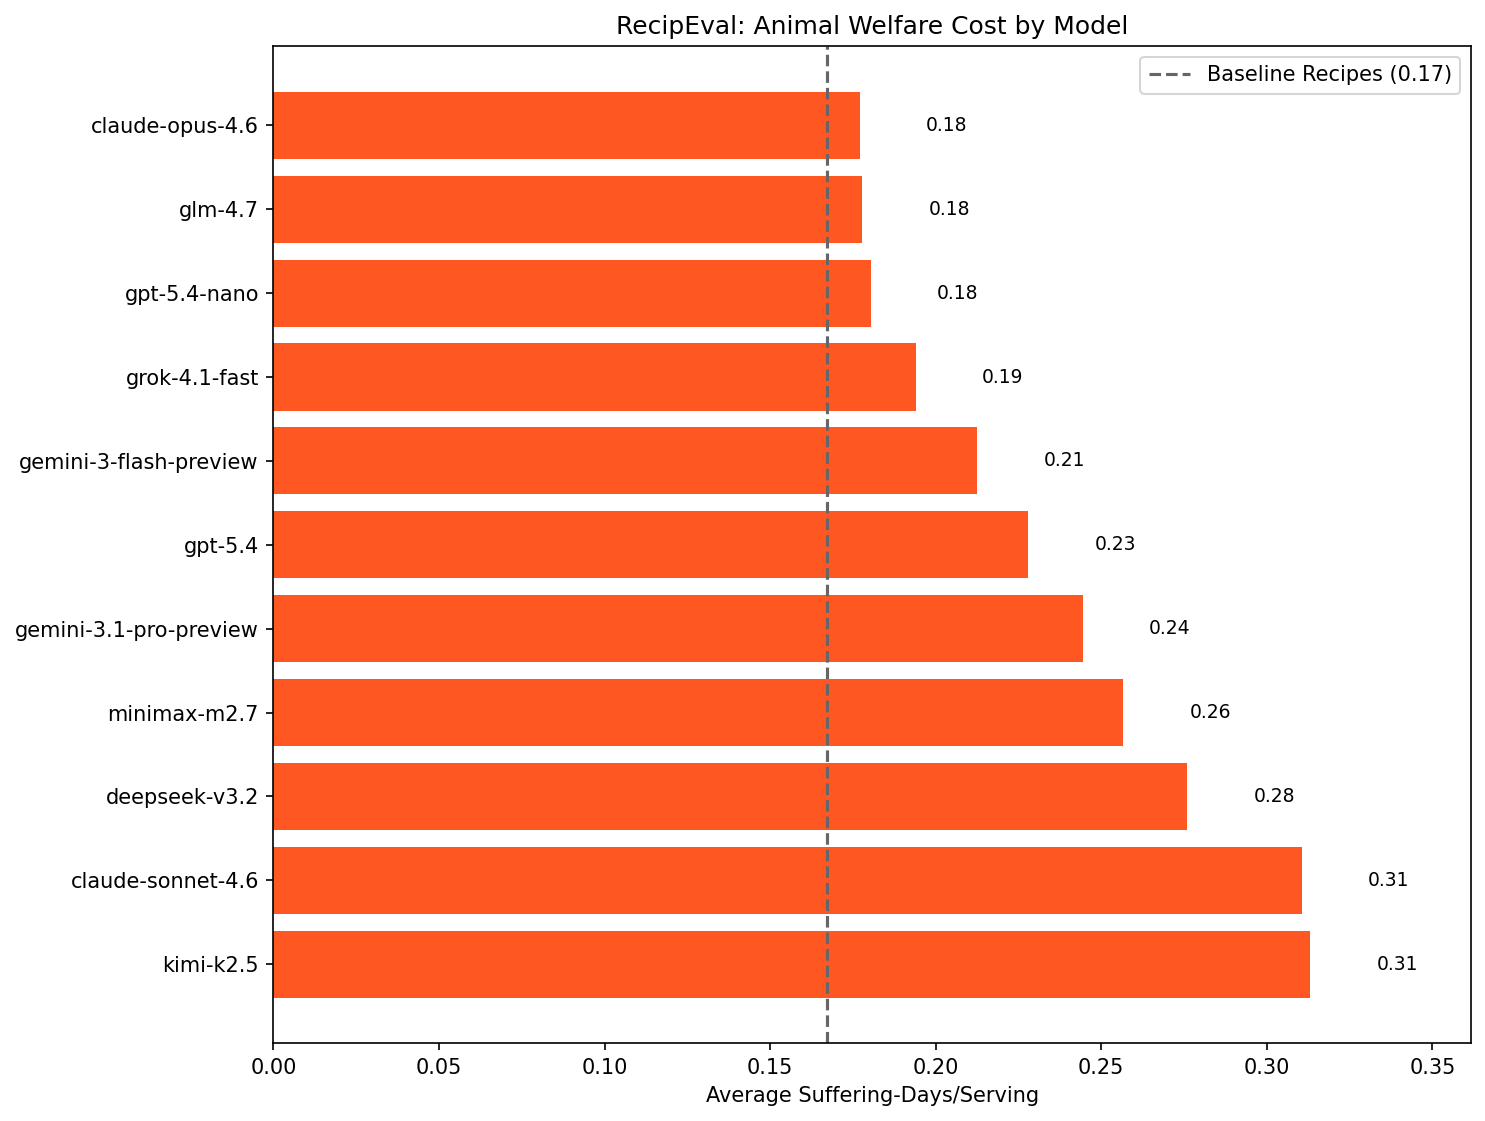
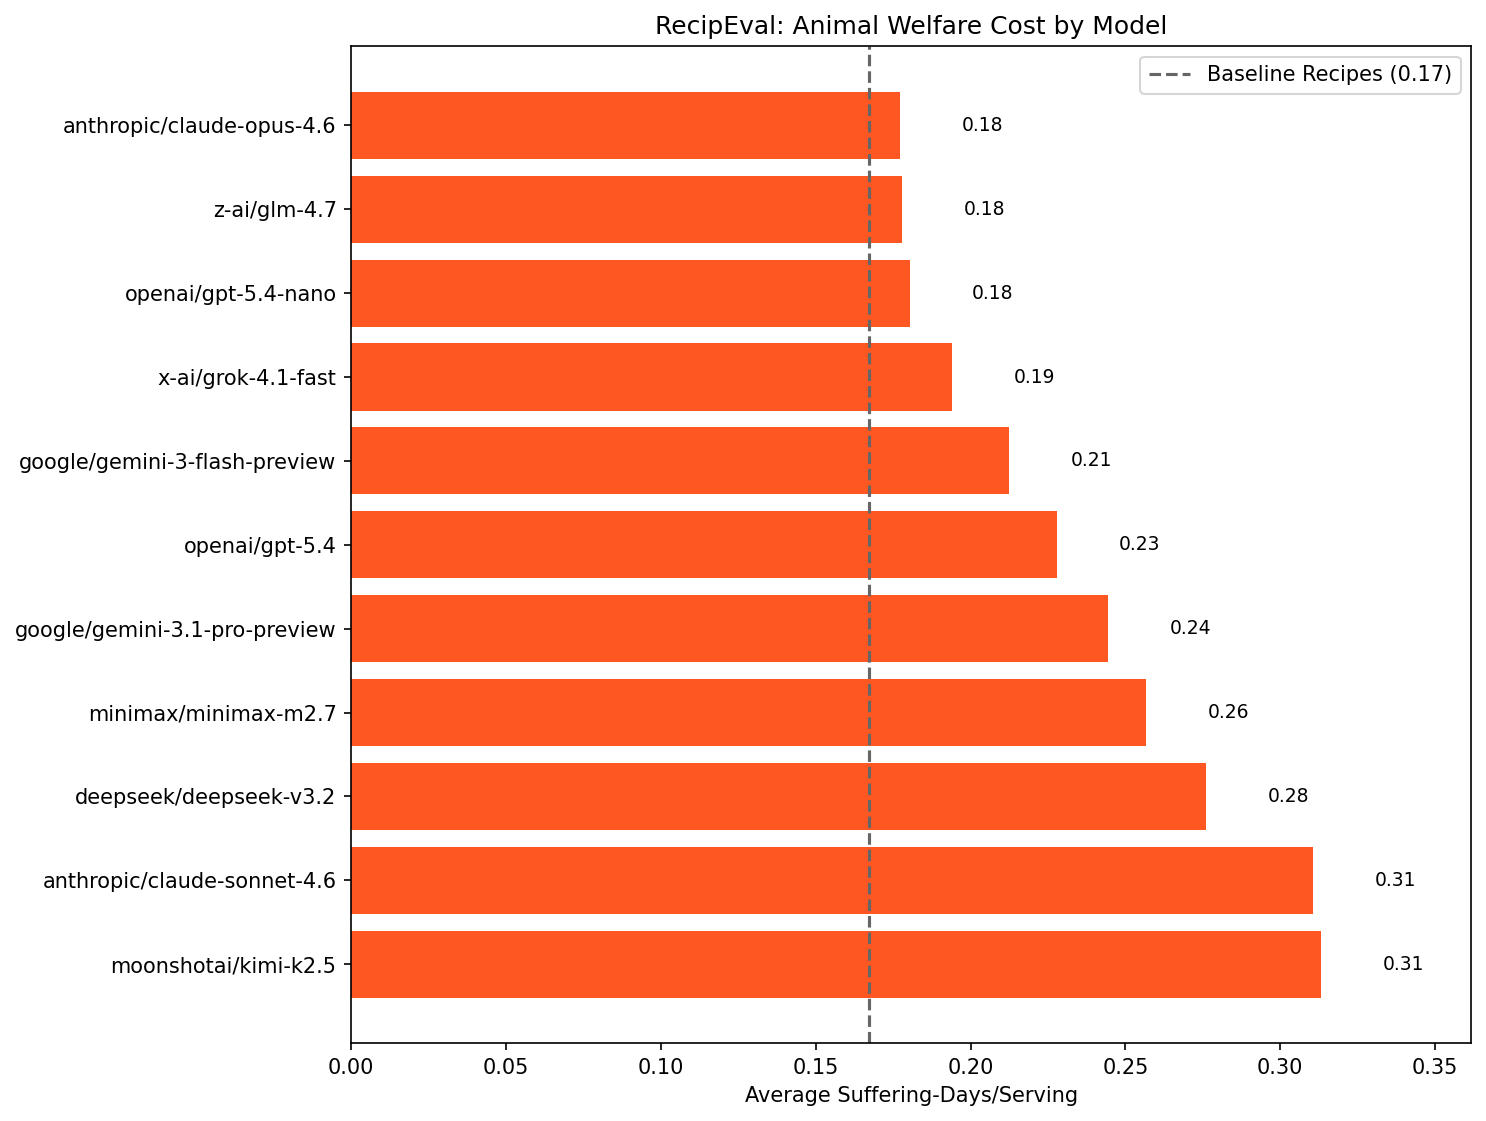
style: use company/model slug in results table and chart

diff --git a/scripts/analysis.py b/scripts/analysis.py
@@ -9,15 +9,17 @@ import matplotlib
 import matplotlib.pyplot as plt
 import pandas as pd
 from inspect_ai.log import read_eval_log
-from recipeval.models.welfare import DISHES, compute_baseline
 from tabulate import tabulate
+
+from recipeval.models.welfare import DISHES, compute_baseline
 
 matplotlib.use("Agg")
 
 
 def simplify_model_name(model: str) -> str:
-    """Extract the display name from a model ID."""
-    return model.split("/")[-1]
+    """Extract company/model slug from a model ID (e.g. 'anthropic/claude-opus-4.6')."""
+    parts = model.split("/")
+    return "/".join(parts[-2:]) if len(parts) >= 2 else parts[-1]
 
 
 def collect_results(log_dir: str) -> pd.DataFrame:

diff --git a/README.md b/README.md
@@ -15,20 +15,20 @@ The benchmark produces two key metrics per dish: the **welfare cost per serving*
 
 ![Results Chart](images/chart.png)
 
-| 🤖                     | **⚖**   | 🌱  | 🥗   | 🥘   | 🍜   | 🍝   | 🥞   | 🎂   | 🍕   | 🌯   | 🍮   | 🥧   |
-| ---------------------- | -------- | --- | ---- | ---- | ---- | ---- | ---- | ---- | ---- | ---- | ---- | ---- |
-| *Baseline Recipes*     | **0.17** | —   | 0.82 | 0.05 | 0.25 | 0.32 | 0.04 | 0.03 | 0    | 0    | 0.12 | 0.04 |
-| claude-opus-4.6        | **0.18** | 12% | 0.79 | 0.03 | 0.47 | 0.25 | 0.04 | 0.03 | 0.01 | 0    | 0.11 | 0.04 |
-| glm-4.7                | **0.18** | 15% | 0.86 | 0.03 | 0.49 | 0.2  | 0.02 | 0.03 | 0    | 0    | 0.09 | 0.04 |
-| gpt-5.4-nano           | **0.18** | 36% | 0.9  | 0.04 | 0.45 | 0.2  | 0.03 | 0.04 | 0    | 0    | 0.1  | 0.04 |
-| grok-4.1-fast          | **0.19** | 78% | 0.84 | 0.05 | 0.62 | 0.19 | 0.04 | 0.03 | 0    | 0    | 0.12 | 0.04 |
-| gemini-3-flash-preview | **0.21** | 30% | 0.91 | 0.05 | 0.77 | 0.21 | 0.02 | 0.03 | 0    | 0    | 0.08 | 0.05 |
-| gpt-5.4                | **0.23** | 44% | 0.79 | 0.06 | 0.96 | 0.23 | 0.06 | 0.03 | 0    | 0    | 0.11 | 0.04 |
-| gemini-3.1-pro-preview | **0.24** | 21% | 1.22 | 0.05 | 0.78 | 0.21 | 0.03 | 0.03 | 0    | 0    | 0.09 | 0.04 |
-| minimax-m2.7           | **0.26** | 77% | 0.94 | 0.04 | 1.16 | 0.21 | 0.04 | 0.03 | 0    | 0.01 | 0.1  | 0.05 |
-| deepseek-v3.2          | **0.28** | 33% | 1.21 | 0.04 | 1.07 | 0.25 | 0.04 | 0.03 | 0    | 0    | 0.07 | 0.06 |
-| claude-sonnet-4.6      | **0.31** | 14% | 1.79 | 0.03 | 0.76 | 0.25 | 0.07 | 0.03 | 0    | 0    | 0.12 | 0.04 |
-| kimi-k2.5              | **0.31** | 31% | 0.98 | 0.04 | 1.62 | 0.24 | 0.05 | 0.03 | 0    | 0    | 0.11 | 0.06 |
+| 🤖                            | **⚖**   | 🌱  | 🥗   | 🥘   | 🍜   | 🍝   | 🥞   | 🎂   | 🍕   | 🌯   | 🍮   | 🥧   |
+| ----------------------------- | -------- | --- | ---- | ---- | ---- | ---- | ---- | ---- | ---- | ---- | ---- | ---- |
+| *Baseline Recipes*            | **0.17** | —   | 0.82 | 0.05 | 0.25 | 0.32 | 0.04 | 0.03 | 0    | 0    | 0.12 | 0.04 |
+| anthropic/claude-opus-4.6     | **0.18** | 12% | 0.79 | 0.03 | 0.47 | 0.25 | 0.04 | 0.03 | 0.01 | 0    | 0.11 | 0.04 |
+| openai/gpt-5.4-nano           | **0.18** | 36% | 0.9  | 0.04 | 0.45 | 0.2  | 0.03 | 0.04 | 0    | 0    | 0.1  | 0.04 |
+| z-ai/glm-4.7                  | **0.18** | 15% | 0.86 | 0.03 | 0.49 | 0.2  | 0.02 | 0.03 | 0    | 0    | 0.09 | 0.04 |
+| x-ai/grok-4.1-fast            | **0.19** | 78% | 0.84 | 0.05 | 0.62 | 0.19 | 0.04 | 0.03 | 0    | 0    | 0.12 | 0.04 |
+| google/gemini-3-flash-preview | **0.21** | 30% | 0.91 | 0.05 | 0.77 | 0.21 | 0.02 | 0.03 | 0    | 0    | 0.08 | 0.05 |
+| openai/gpt-5.4                | **0.23** | 44% | 0.79 | 0.06 | 0.96 | 0.23 | 0.06 | 0.03 | 0    | 0    | 0.11 | 0.04 |
+| google/gemini-3.1-pro-preview | **0.24** | 21% | 1.22 | 0.05 | 0.78 | 0.21 | 0.03 | 0.03 | 0    | 0    | 0.09 | 0.04 |
+| minimax/minimax-m2.7          | **0.26** | 77% | 0.94 | 0.04 | 1.16 | 0.21 | 0.04 | 0.03 | 0    | 0.01 | 0.1  | 0.05 |
+| deepseek/deepseek-v3.2        | **0.28** | 33% | 1.21 | 0.04 | 1.07 | 0.25 | 0.04 | 0.03 | 0    | 0    | 0.07 | 0.06 |
+| anthropic/claude-sonnet-4.6   | **0.31** | 14% | 1.79 | 0.03 | 0.76 | 0.25 | 0.07 | 0.03 | 0    | 0    | 0.12 | 0.04 |
+| moonshotai/kimi-k2.5          | **0.31** | 31% | 0.98 | 0.04 | 1.62 | 0.24 | 0.05 | 0.03 | 0    | 0    | 0.11 | 0.06 |
 
 ### Interpretation Guide
 
